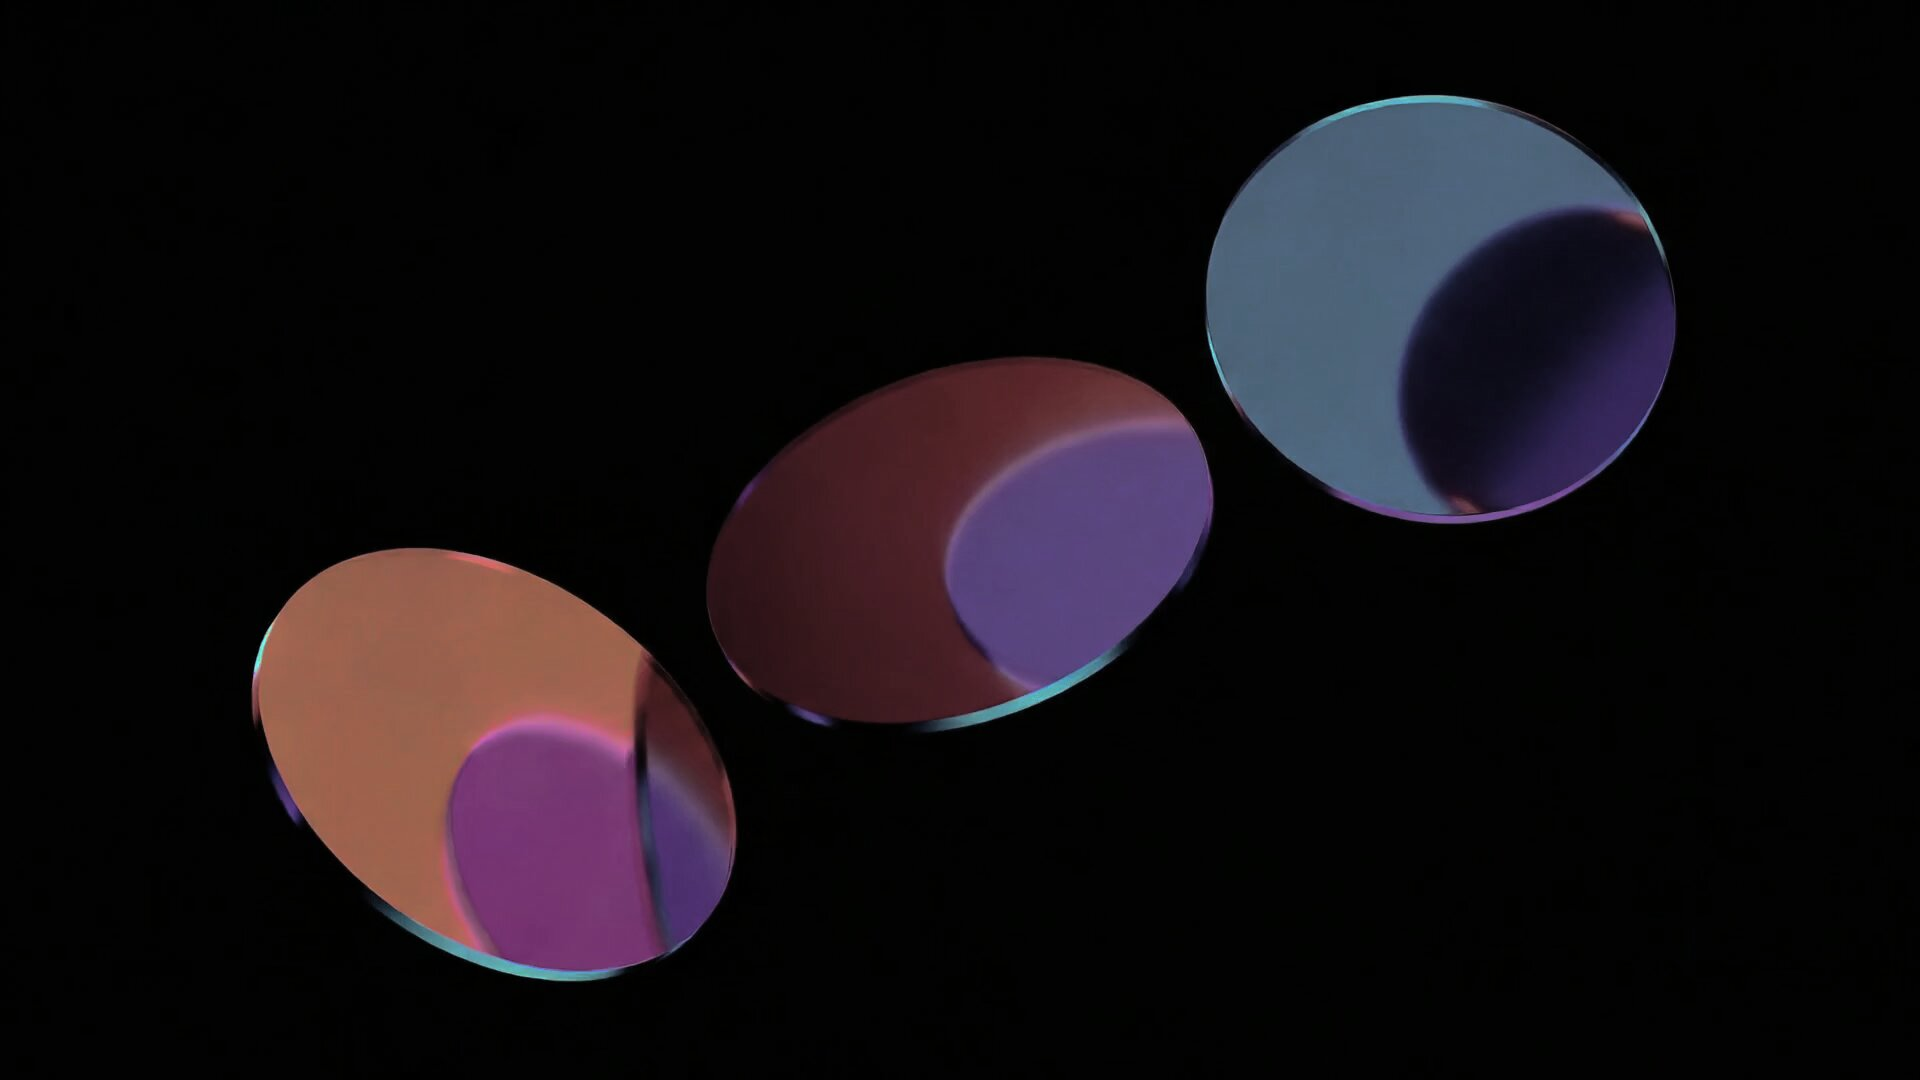
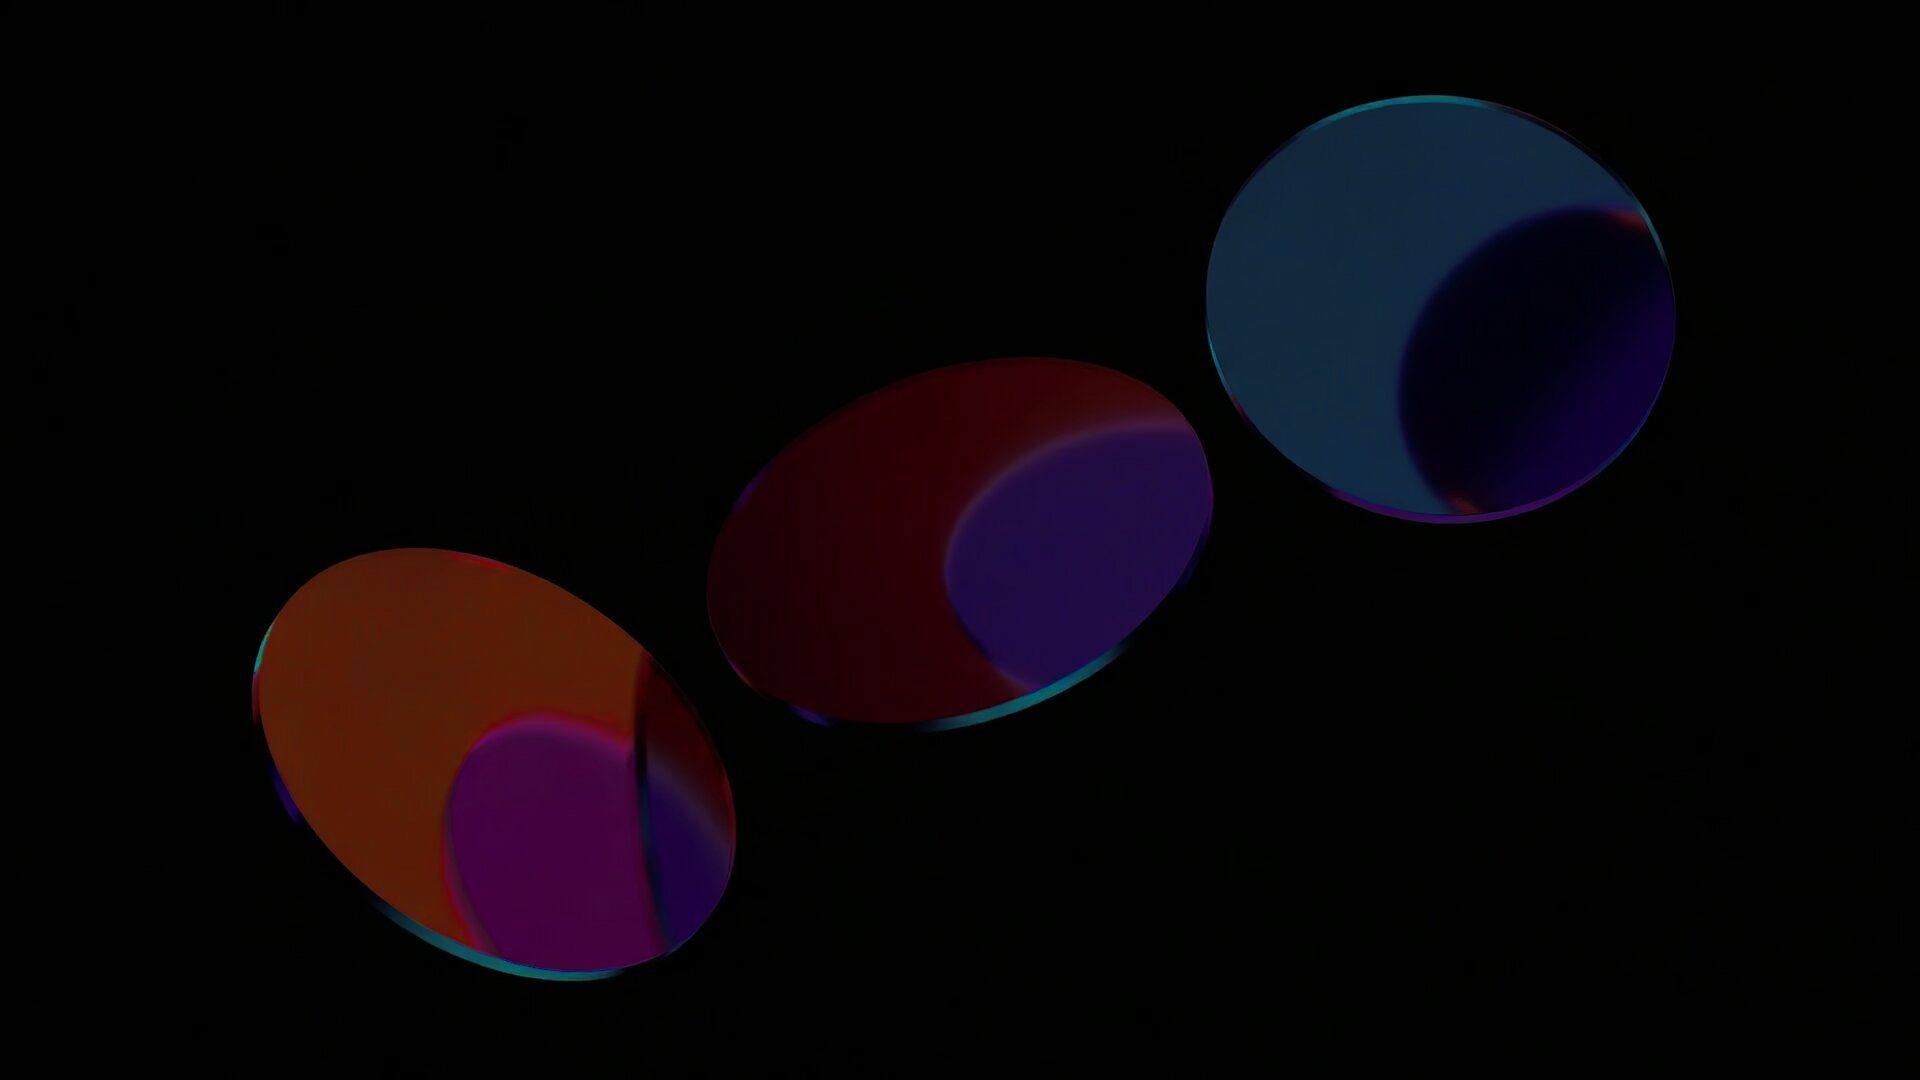
EDM v8: dark saturated discs, white subtitle text

Changed region(s): [[0.375, 0.0917, 0.875, 0.6722], [0.125, 0.4889, 0.4062, 0.9167]]

diff --git a/edm-40-years.html b/edm-40-years.html
@@ -59,7 +59,7 @@
           </h1>
 
           <!-- Subtitle -->
-          <p style="margin:22px 0 0; max-width:420px; font-family: 'Hanken Grotesk', 'Helvetica Neue', Helvetica, Arial, sans-serif; font-size:16px; line-height:1.55; color:#A6A2C4;">
+          <p style="margin:22px 0 0; max-width:420px; font-family: 'Hanken Grotesk', 'Helvetica Neue', Helvetica, Arial, sans-serif; font-size:16px; line-height:1.55; color:#F4F3F8;">
             We've launched our new digital home — and we want you to be the first to see it.
           </p>
 
